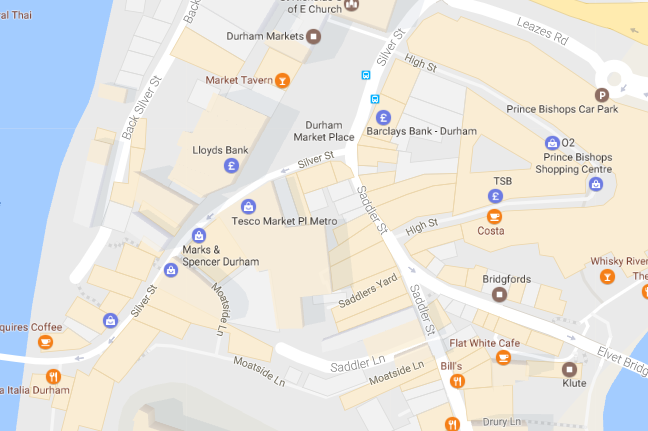
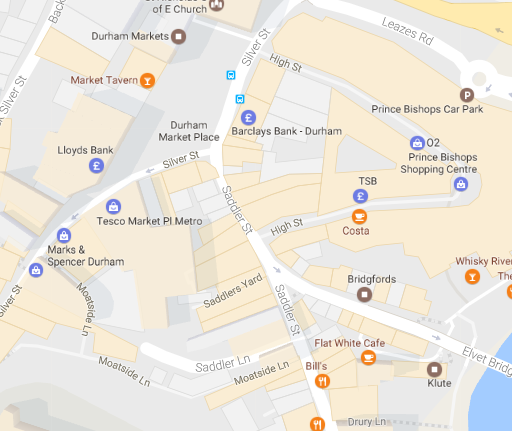
added more lights and postions

diff --git a/trees.html b/trees.html
@@ -55,9 +55,29 @@
 As Christmas draws closer, everyone is getting into the festive theme and decorating the city with beautiful trees, lights and displays. Below you will find an interactive map showing the places where we have found some of the prettiest tress and lights around! Click on the icons to find out more!
 </p>
 
+<!--- second map-->
+
+<div id = 'parent2'>
+
+<center><h2> Town Center </h2></center>
+
+<img class = 'map' src = 'images/map2.png' width="700" height="700">
+
+<!-- trigger the modal-->
+<img id="treea" class = 'trees' src="images/center2.jpg" alt = "Tree in town center" width="20" height="20">
+
+<img id="treeb" class = 'trees' src="images/pandora.jpg" alt = "Pandora Display" width="20" height="20">
+
+<img id="treec" class = 'trees' src="images/wreaths.jpg" alt = "Wreaths in Shopping Center" width="20" height="20">
+
+<img id="treed" class = 'trees' src="images/moon.jpg" alt = "Moon Display" width="20" height="20">
+
+</div> <!--- end parent divfor pic placement -->
+
 <!--first map-->
 <div id = 'parent'>
 
+<center><h2> The Science Site </h2></center>
 <img class = 'map' src = 'images/map.png' width="700" height="700">
 
 <!-- trigger the modal-->
@@ -73,22 +93,159 @@ As Christmas draws closer, everyone is getting into the festive theme and decora
 
  <!--- end parent divfor pic placement -->
 
-<!--- second map-->
 
-<div id = 'parent2'>
 
-<img class = 'map' src = 'images/map.png' width="700" height="700">
+<!-- modals for town -->
 
-<!-- trigger the modal-->
-<img id="treea" class = 'trees' src="images/center.jpg" alt = "Tree in town center" width="20" height="20">
+<br>
 
-<img id="tree2" class = 'trees' src="images/West.jpg" alt = "Tree in hall of geography west building" width="20" height="20">
+<!-- The Modal center tree -->
+<div id="market street" class="modal">
 
-<img id="tree3" class = 'trees' src="images/West.jpg" alt = "Tree in hall of geography west building" width="20" height="20">
+  <!-- The Close Button -->
+  <span class="close" onclick="document.getElementById('market street').style.display='none'">&times;</span>
 
-<img id="tree4" class = 'trees' src="images/West.jpg" alt = "Tree in hall of geography west building" width="20" height="20">
+   <!-- Modal Content (The Image) -->
+  <img class="modal-content" id="img0a" >
 
-</div> <!--- end parent divfor pic placement -->
+    <!-- Modal Caption (Image Text) -->
+  <div id="caption"></div>
+</div>
+<br>
+
+<script>
+	
+
+	// Get the modal
+var modal = document.getElementById('market street');
+
+// Get the image and insert it inside the modal - use its "alt" text as a caption
+var img = document.getElementById('treea');
+
+var modalImg = document.getElementById("img0a");
+var captionText = document.getElementById("caption");
+img.onclick = function(){
+    modal.style.display = "block";
+    modalImg.src = this.src;
+    captionText.innerHTML = this.alt;
+}
+</script>
+
+<br>
+
+<!-- The Modal pandora -->
+<div id="pandora modal" class="modal">
+
+  <!-- The Close Button -->
+  <span class="close" onclick="document.getElementById('pandora modal').style.display='none'">&times;</span>
+
+   <!-- Modal Content (The Image) -->
+  <img class="modal-content" id="img0b" >
+
+    <!-- Modal Caption (Image Text) -->
+  <div id="caption"></div>
+</div>
+<br>
+
+<script>
+	
+
+	// Get the modal
+var modal = document.getElementById('pandora modal');
+
+// Get the image and insert it inside the modal - use its "alt" text as a caption
+var img = document.getElementById('treeb');
+
+var modalImg = document.getElementById("img0b");
+var captionText = document.getElementById("caption");
+img.onclick = function(){
+    modal.style.display = "block";
+    modalImg.src = this.src;
+    captionText.innerHTML = this.alt;
+}
+</script>
+
+<br>
+
+<!-- The Modal wreaths -->
+<div id="bishop" class="modal">
+
+  <!-- The Close Button -->
+  <span class="close" onclick="document.getElementById('bishop').style.display='none'">&times;</span>
+
+   <!-- Modal Content (The Image) -->
+  <img class="modal-content" id="img0c" >
+
+    <!-- Modal Caption (Image Text) -->
+  <div id="caption"></div>
+</div>
+<br>
+
+<script>
+	
+
+	// Get the modal
+var modal = document.getElementById('bishop');
+
+// Get the image and insert it inside the modal - use its "alt" text as a caption
+var img = document.getElementById('treec');
+
+var modalImg = document.getElementById("img0c");
+var captionText = document.getElementById("caption");
+img.onclick = function(){
+    modal.style.display = "block";
+    modalImg.src = this.src;
+    captionText.innerHTML = this.alt;
+}
+</script>
+
+<br>
+
+<!-- The Modal moon display -->
+<div id="shop" class="modal">
+
+  <!-- The Close Button -->
+  <span class="close" onclick="document.getElementById('shop').style.display='none'">&times;</span>
+
+   <!-- Modal Content (The Image) -->
+  <img class="modal-content" id="img0d" >
+
+    <!-- Modal Caption (Image Text) -->
+  <div id="caption"></div>
+</div>
+<br>
+
+<script>
+	
+
+	// Get the modal
+var modal = document.getElementById('shop');
+
+// Get the image and insert it inside the modal - use its "alt" text as a caption
+var img = document.getElementById('treed');
+
+var modalImg = document.getElementById("img0d");
+var captionText = document.getElementById("caption");
+img.onclick = function(){
+    modal.style.display = "block";
+    modalImg.src = this.src;
+    captionText.innerHTML = this.alt;
+}
+</script>
+
+
+
+
+
+
+
+
+
+
+
+
+
+<!---modals for science site-->
 
 <br>
 

diff --git a/style.css b/style.css
@@ -256,7 +256,10 @@ img.trees {
 
 img.trees:hover {opacity: 0.7;}
 
-divparent {
+
+
+/* map 1*/
+#parent {
   position: relative;
   top: 0;
   left: 0;
@@ -265,10 +268,11 @@ divparent {
   position: relative;
   top: 0;
   left: 0;
-    border-radius: 25px;;
-    padding: 20px; 
-    width: 500px;
-    height: 500px;
+  border-radius: 25px;;
+  border: 3px solid #006bb3;
+  margin: 50px;
+  width: 500px;
+  height: 500px;
   z-index: 0;
 }
 
@@ -289,6 +293,64 @@ divparent {
   left: 270px;
   z-index: 1;
 } 
+
+/* map 2*/
+#parent2 {
+  position: relative;
+  float: right;
+  top: 0;
+  left: 0;
+}
+.map2 {
+  position: relative;
+  top: 0;
+  left: 0;
+  float: right;
+  border-radius: 25px;;
+  border: 3px solid #006bb3;
+  width: 500px;
+  height: 500px;
+  z-index: 0;
+}
+
+/* center*/
+#treea {
+  position: absolute;
+  border-radius: 50%;
+  top: 180px;
+  left: 240px;
+  z-index: 1;
+}
+
+/* pandora*/
+#treeb {
+  position: absolute;
+  border-radius: 50%;
+  top: 400px;
+  left: 320px;
+  z-index: 1;
+} 
+/* wreaths*/
+#treec {
+  position: absolute;
+  border-radius: 50%;
+  top: 310px;
+  left: 480px;
+  z-index: 1;
+}
+
+/* moon*/
+#treed {
+  position: absolute;
+  border-radius: 50%;
+  top: 300px;
+  left: 270px;
+  z-index: 1;
+} 
+
+
+
+
 
 /* The Modal (background) */
 .modal {
